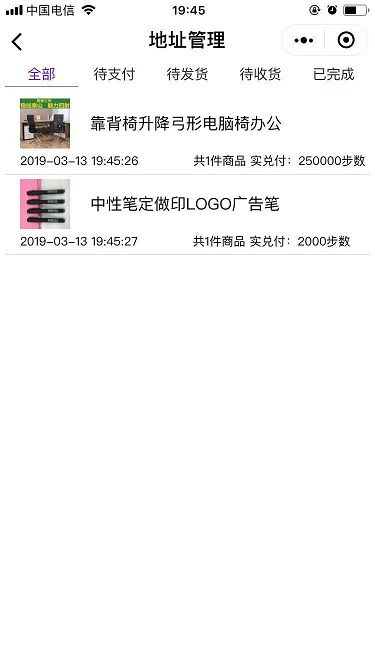
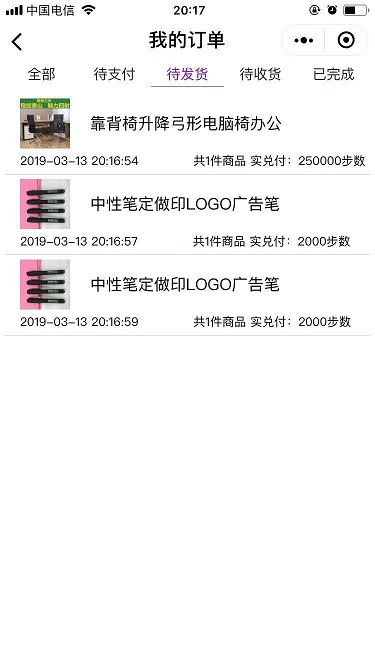
页面标题错误

diff --git a/pages/orderlist/orderlist.js b/pages/orderlist/orderlist.js
@@ -6,7 +6,7 @@ Page({
     //data对象是提供给wxml视图中的组件进行数据绑定用的
     //wxml视图中的动态数据均来自于此
     data: {
-        title: "地址管理",
+        title: "我的订单",
         showSelectAddress: false,
         value: [0,0,0],
         addressInfo: {

diff --git a/pages/me/me.js b/pages/me/me.js
@@ -6,7 +6,7 @@ Page({
     //data对象是提供给wxml视图中的组件进行数据绑定用的
     //wxml视图中的动态数据均来自于此
     data: {
-        title: "我的订单",
+        title: "我的",
         nickName: "无名"
     },
 
